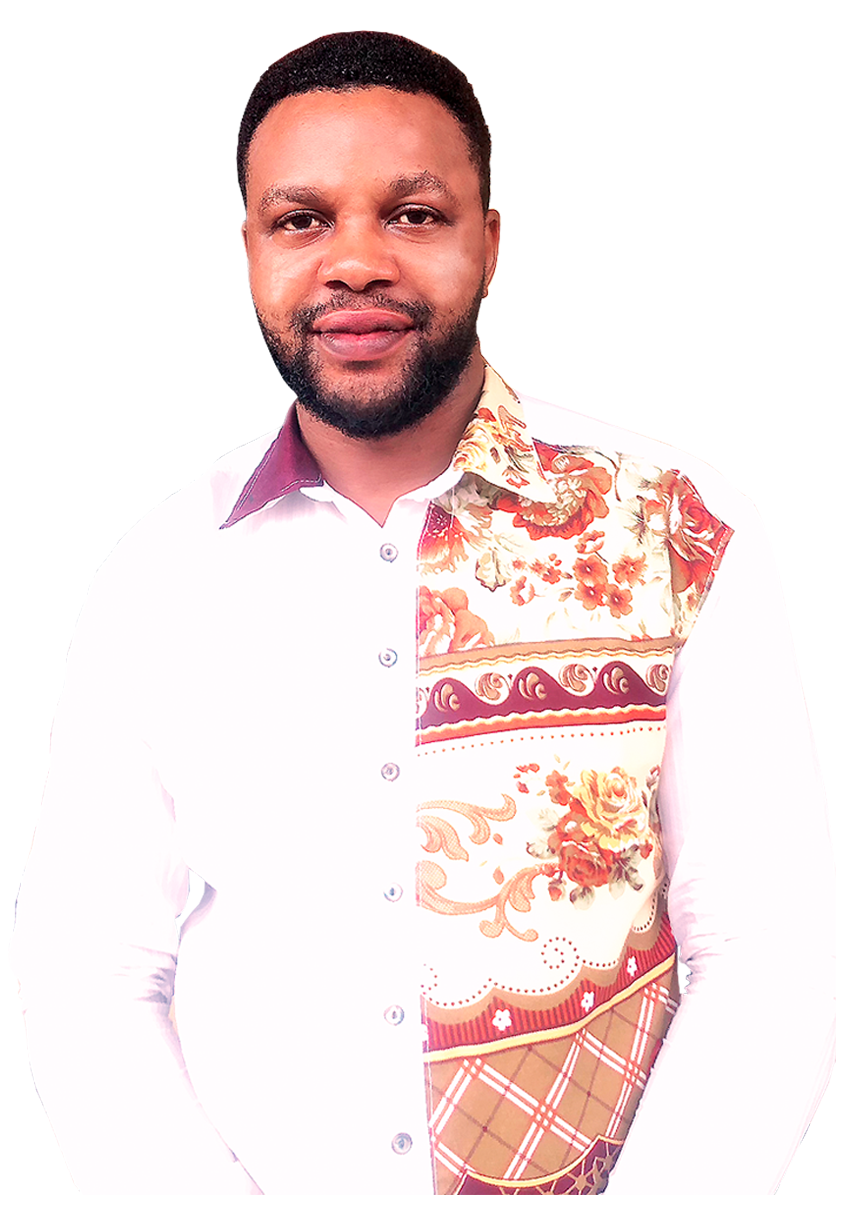
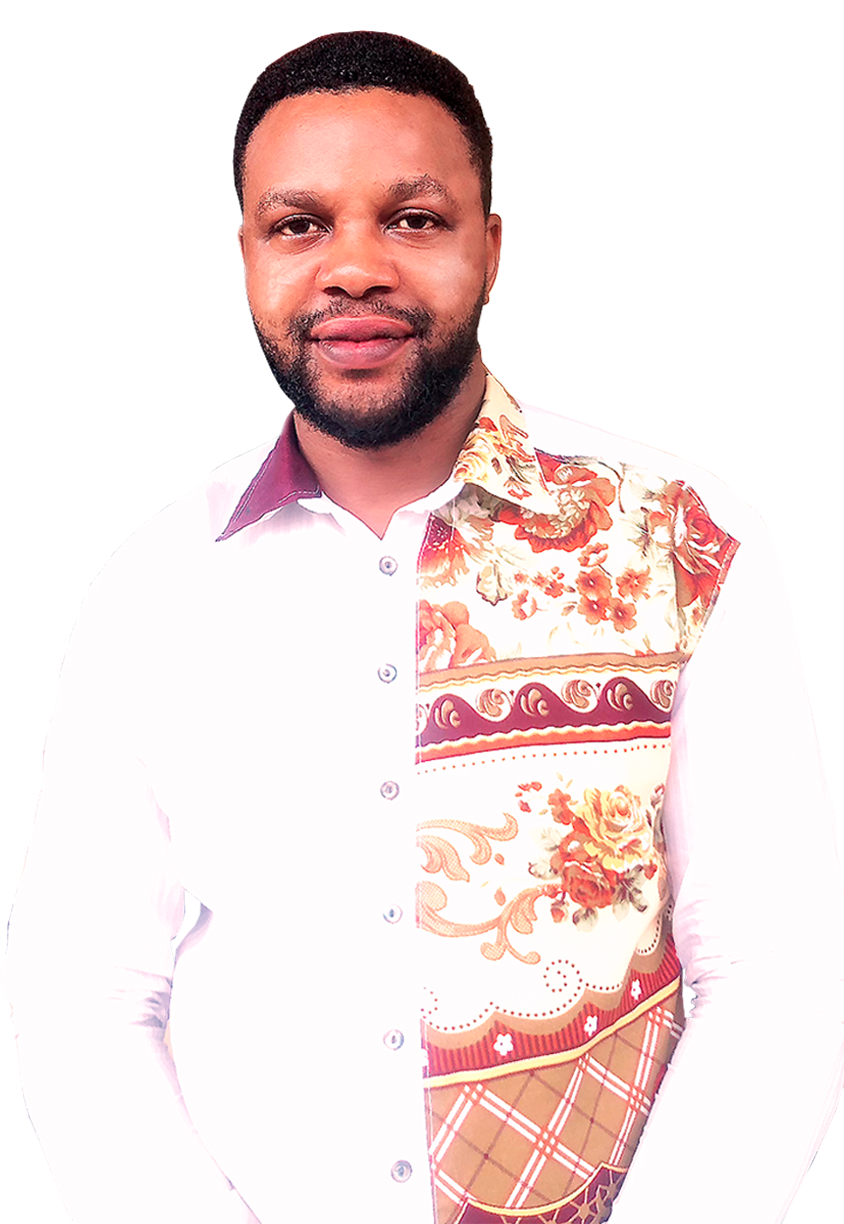
Header Animation Implementation

diff --git a/public/css/styles.css b/public/css/styles.css
@@ -198,7 +198,6 @@ section {
 	border-radius: var(--br-sm-2);
 	height: 90%;
 	width: 60%;
-	min-width: 350px;
 	margin-left: 2rem;
 	background-color: var(--color-black);
 	transition: all 0.4s ease-in-out;
@@ -207,10 +206,10 @@ section {
 	width: 100%;
 	height: 100%;
 	object-fit: cover;
-	overflow: hidden;
+	/* overflow: hidden; */
 	transition: all 0.4s ease-in-out;
 	filter: grayscale(100%);
-	padding: 25px 25px 0 25px;
+	padding: 5px 10px 10px 10px;
 }
 .header-content .left-header .image img:hover {
 	filter: grayscale(0);
@@ -220,7 +219,22 @@ section {
 	flex-direction: column;
 	justify-content: center;
 	padding-right: 12rem;
+	opacity: 1;
+	animation: loader 3s ease-in-out;
 }
+
+@keyframes loader {
+	0% {
+		opacity: 0;
+	}
+	50% {
+		opacity: 0;
+	}
+	100% {
+		opacity: 1;
+	}
+}
+
 .header-content .right-header .name {
 	font-size: 3rem;
 }
@@ -721,6 +735,8 @@ section {
 	z-index: -1;
 }
 
+/*# sourceMappingURL=styles.css.map */
+
 @media screen and (max-width: 600px) {
 	header {
 		padding: 0;
@@ -817,6 +833,7 @@ section {
 		margin: 0.5rem 0.5rem !important;
 	}
 }
+
 @media screen and (max-width: 550px) {
 	header {
 		padding: 0 !important;
@@ -944,7 +961,7 @@ section {
 		margin: 0.6rem 1rem;
 	}
 }
-@media screen and (max-width: 700px) {
+@media screen and (max-width: 768px) {
 	.section {
 		padding: 7rem 4rem !important;
 	}
@@ -952,3 +969,39 @@ section {
 		grid-template-columns: 1fr;
 	}
 } /*# sourceMappingURL=styles.css.map */
+
+@media screen and (max-width: 320px) {
+	.section {
+		padding: 2.5rem 1.2rem !important;
+		margin: 0 auto;
+	}
+
+	.header-content .left-header .image {
+		border-radius: var(--br-sm-2);
+		height: 100%;
+		width: 100%;
+		margin-top: 2rem;
+		background-color: var(--color-black);
+		transition: all 0.4s ease-in-out;
+	}
+
+	.header-content .right-header {
+		animation: none;
+	}
+
+	.header-content .right-header p {
+		opacity: 1;
+		animation: loader 2s ease-in;
+	}
+
+	@keyframes loader {
+		0% {
+			transform: translateX(-200px);
+			opacity: 0;
+		}
+		100% {
+			transform: translateX(0px);
+			opacity: 1;
+		}
+	}
+}

diff --git a/index.html b/index.html
@@ -18,30 +18,30 @@
 
     <header class="section sec1 header active" id="home">
        <div class="header-content">
-        <div class="left-header">
-            <div class="h-shape"></div>
-            <div class="image">
-                <img src="/images/jf-2.png" alt="justfidel">
+            <div class="left-header">
+                <div class="h-shape"></div>
+                <div class="image">
+                    <img src="/images/jf-2.png" alt="justfidel">
+                </div>
             </div>
-        </div>
-        <div class="right-header">
-            <h3>I'm</h3>
-            <h1 class="name">
-                <span>Fidelis Adang.<br/></span> 
-            </h1>
-            <h4>A Web Developer.</h4>
-            <p>
-                I'm a Web Developer and I love to create beautiful and functional websites.
-                I work with HTML, CSS, JavaScript and React.
-            </p>
-            
-            <div class="btn-container">
-                <a href="/folder/resume.pdf" class="main-btn" download>
-                    <span class="btn-text">Download CV</span>
-                    <span class="btn-icon"><i class="fa-solid fa-download"></i></span>
-                </a>
+            <div class="right-header">
+                <h3>I'm</h3>
+                <h1 class="name">
+                    <span>Fidelis Adang.<br/></span> 
+                </h1>
+                <h4>A Web Developer.</h4>
+                <p>
+                    I'm a Web Developer and I love to create beautiful and functional websites.
+                    I work with HTML, CSS, JavaScript and React.
+                </p>
+                
+                <div class="btn-container">
+                    <a href="/folder/resume.pdf" class="main-btn" download>
+                        <span class="btn-text">Download CV</span>
+                        <span class="btn-icon"><i class="fa-solid fa-download"></i></span>
+                    </a>
+                </div>
             </div>
-        </div>
        </div>
     </header> 
     
